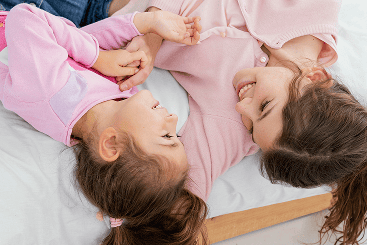
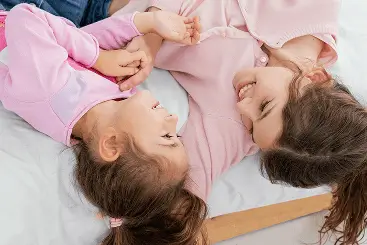
fix img

diff --git a/src/pages/kids-club/ui/KidsClubPage.vue b/src/pages/kids-club/ui/KidsClubPage.vue
@@ -1,7 +1,7 @@
 <script setup lang="ts">
 import {TheHero} from "~/widgets/hero";
 import {BoxForAnimationSection} from "~/widgets/box-for-animation-section";
-import {ActiveDaySection} from "~/widgets/kids-club-page/active-day";
+import ActiveDaySection from "~/widgets/kids-club-page/active-day/ui/ActiveDaySection.vue";
 import {BoxForForm} from "~/widgets/box-for-form";
 import {AgeGroupsSection} from "~/widgets/kids-club-page/age-groups";
 import {FoodSection} from "~/widgets/kids-club-page/food";
